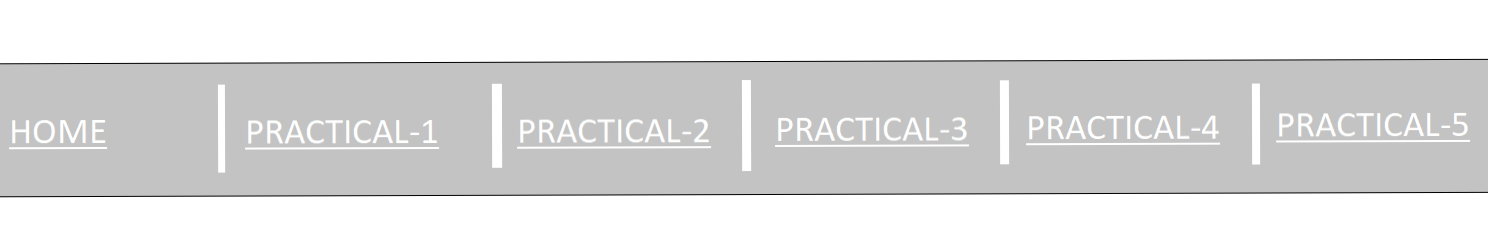
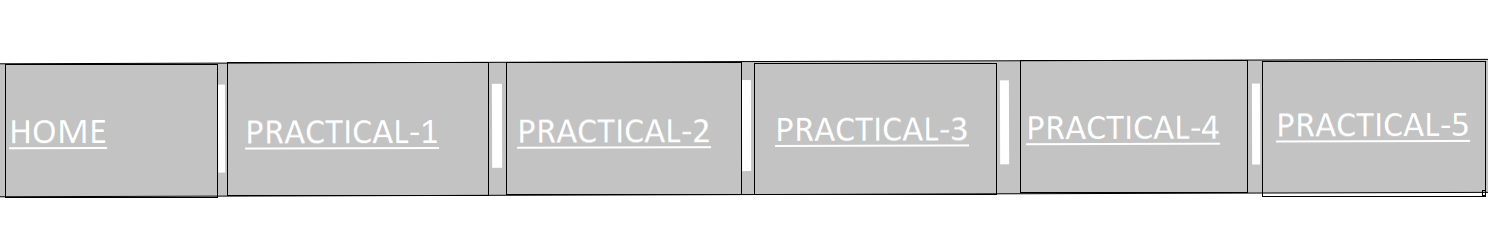
css

diff --git a/css.html b/css.html
@@ -1,0 +1,99 @@
+<!DOCTYPE html>
+<html lang="en">
+<head>
+    <meta charset="UTF-8">
+    <meta name="viewport" content="width=device-width, initial-scale=1.0">
+    <title>Document</title>
+    <link rel ="stylesheet" href="style.css">
+                
+    <style>
+      
+        html{
+
+          height:100%;
+        }
+        h1,h2{
+          text-align:center;
+          color: rgb(49, 0, 128);
+        }
+        p{
+            background-color: greenyellow;
+           
+        }
+        body{
+        background-image: url('../img/jess-bailey-q10VITrVYUM-unsplash.jpg');
+        background-position: center;
+        background-size: cover;
+        }
+        
+        a:link{
+            color: red;
+        }
+        a:visited{
+            color: seagreen;
+        }
+
+        a:active{
+            color: yellow;
+        }
+        a:hover{
+            color:goldenrod
+        }
+
+    </style>
+</head>
+<body>
+
+    <h1 style="color: green">
+        Welcome to Fullstack Course
+    </h1>
+
+    <h2>
+        About Course
+    </h2>
+
+    <p>
+        Front -end web development is everything involved in programming the user interface of web application.Typically 
+        it refers to the Hypertext Markup Language(HTML),Cascading Style Sheets (CSS) and JavaScript portion of website
+        production as oppsed to the database or server -side programming.It encompasses everything from building a simple 
+        page of HTML text to creating complex, responsive HTML5 websites designed to be accessed via various
+        different browsers,devices and screen sizes. 
+    </p>
+
+    <h1 >
+        List of Practical
+    </h1>
+
+    <p>
+        1.Create a Web page including HTML basic skeleton using Offline HTML Editor and Online Sandbox Environment
+        <a href ="p/practical1.html">Practical-1</a>
+        <br>
+        <br>
+    </p>
+        <h1 >
+            hello 
+        </h1>
+
+    <p>
+        2.Live your First Web-Page on Git-Hub.
+        <a href ="p/practical2.html">Practical-2</a>
+        <br>
+        <br>
+
+        3. Create a web page showing a basic html structure using character Entities and span Tag.
+        <a href ="p/practical3.html">Practical-3</a>
+        <br>  
+        <br>
+
+        4.Create a website having list of all practical and their individual practical Page links
+        <a href ="p/practical4.html">Practical-4</a> 
+    </p>  
+    <h2>
+        ufhdu
+    </h2>
+<h2>
+    uusesdhhf
+</h2>
+
+</body>
+</html>

diff --git a/5.html b/5.html
@@ -1,0 +1,86 @@
+<!DOCTYPE html>
+<html lang="en">
+<head>
+    <meta charset="UTF-8">
+    <meta name="viewport" content="width=device-width, initial-scale=1.0">
+    <title>Document</title>
+        
+<style>
+
+
+    body{
+    background-color:rgb(160, 159, 159);
+    }
+
+
+    .my-div1{
+    background-color: rgb(99, 97, 97);
+
+    border:10px solid ivory;
+    padding: 30px;
+    margin-bottom: 10px;
+
+    font-size: 30px;
+    }
+        a:link{
+            color: white;
+        }
+
+</style>
+</head>
+
+<body>
+    <div class="my-div1">
+       
+        <a href ="../index.html">          HOME   |</a>
+        
+        <a href ="practical1.html">  PRACTICAL-1     |</a>
+
+        
+        <a href ="practical2.html">  PRACTICAL-2     |</a>
+    
+      
+        <a href ="practical3.html">  PRACTICAL-3     |</a>
+      
+     
+        <a href ="practical4.html">  PRACTICAL-4     |</a> 
+
+        <a href ="#">  PRACTICAL-5     </a> 
+     
+ 
+    </div>
+    <img src="../img/fullmenu.png"
+    style="display:block;margin-left:auto;margin-right:auto;" 
+     usemap="#map" 
+   />
+
+
+    <h2 style="color: ivory; text-align: center; font-size: 35px;">
+        Introduction to Front-End Tecnologies
+    </h2>
+
+
+
+    <img src="../img/Practical-5.jpg"
+    style="display:block;margin-left:auto;margin-right:auto;" 
+     usemap="#map1" 
+   />
+
+    <map id="map1" name="map1">
+        <area href="practical5-html.html" shape="rect" coords="18,4,177,169" />  
+        
+        <area href="practical5-css.html" shape="circle" coords="285,100,94"/>   
+
+        <area href="practical5-js.html"  shape="rect"  coords="21,195,175,339" />
+
+        <area href="practical5-boot.html" shape="poly" coords="288,200,230,220,240,300,287,332,338,302,345,224" />
+         
+    </map>
+
+    <h3 style="color: red; text-align: center">
+         Click on any part of logo to know more about these technologies.
+    </h3>
+       
+
+</body>
+</html>

diff --git a/css_selector.html b/css_selector.html
@@ -1,0 +1,103 @@
+<!DOCTYPE html>
+<html lang="en">
+<head>
+    <meta charset="UTF-8">
+    <meta name="viewport" content="width=device-width, initial-scale=1.0">
+    <title>Document</title>
+   <style>
+
+        p[lang]
+        {
+            text-shadow:2px 2px 5px green;
+        }
+
+    p,h2{
+           color:red ;
+    }
+
+   *{
+            font-size: 20px;
+
+   }
+  
+   #para4{
+       background-color:aqua;
+   }
+
+   .my-div b{
+    border:5px solid grey;
+    padding: 20px;
+    margin-bottom: 10px;
+   }
+  .my-div1{
+     background-color: rgb(167, 57, 57);
+  }
+  div p{
+          background-color: rgb(199, 204, 129);
+   }
+   div >p{
+          background-color: rgb(30, 32, 2);
+   }
+
+
+   </style>
+  
+</head>
+
+<body>
+
+   <a href="# "> My Achor Tag</a>
+    <div class="my-div">
+        <h1>
+            heading1
+        </h1>
+        <h2>
+            heading2
+        </h2>
+        <blockquote>
+        <p>
+            Lorem ghrhug
+        </p>
+        </blockquote>
+    </div>
+
+    <div class="my-div1">
+        <h1 class="my-div1">
+            heading1
+        </h1>
+        <h2>
+            heading2
+        </h2>
+        <p id="para2">
+            Lorem ghrhug
+        </p>
+    </div>
+
+    <div class="my-div">
+        <h1>
+            heading1
+        </h1>
+        <h2>
+            heading2
+        </h2>
+        <p>
+         <b>vdvdfdg</b>  
+        </p>
+    </div>
+    <p id="para4">
+       hdfgdhfgdfghf
+    </p>
+<p lang="en">
+
+    hfudhfu
+
+</p>
+<p lang="fr">
+    
+    hfudhfu
+
+</p>
+
+
+</body>
+</html>

diff --git a/p/practical5-boot copy.html b/p/practical5-boot copy.html
@@ -1,0 +1,38 @@
+<!DOCTYPE html>
+<html lang="en">
+<head>
+    <meta charset="UTF-8">
+    <meta name="viewport" content="width=device-width, initial-scale=1.0">
+    <title>Document</title>
+
+    <style>
+        body{
+        background-color: rgb(185, 180, 180);
+       
+        }
+    </style>
+
+</head>
+
+<body>
+   
+    <img src="../img/boot.jpg"  width="400" height="400"
+    style="width:40%;display:block;margin-left:auto;margin-right:auto;">
+
+
+    <p  style="background-color: grey;color: ivory;padding: 20px;">
+        Bootstrap is a powerful front-end framework for faster and easier web development. It includes HTML and CSS based design templates for creating common user interface components like forms, buttons, navigations, dropdowns, alerts, modals, tabs, accordions, carousels, tooltips, and so on.
+
+        Bootstrap gives you ability to create flexible and responsive web layouts with much less efforts.
+        
+        Bootstrap was originally created by a designer and a developer at Twitter in mid-2010. Before being an open-sourced framework, Bootstrap was known as Twitter Blueprint.
+        
+        You can save a lot of time and effort with Bootstrap. 
+    </p>
+     
+
+</body>
+
+
+
+</html>

diff --git a/css_color.html b/css_color.html
@@ -1,0 +1,47 @@
+<!DOCTYPE html>
+<html lang="en">
+<head>
+    <meta charset="UTF-8">
+    <meta name="viewport" content="width=device-width, initial-scale=1.0">
+    <title>Document</title>
+    <style>
+
+
+        .color1{
+
+            height: 100px;
+            border: 2px solid black;
+            background-color: brown;
+        }
+        .innerbox{
+            height: 100px;
+            background-color: rgb(235, 208, 208);
+            padding: 50px;
+            margin-top:20px;
+
+        }
+    h2{
+
+      color: #96000; 
+      text-align: center;
+      font-size:40px;
+
+    }
+    </style>
+</head>
+
+<body>
+
+<div class="color1">  
+
+    <div
+        class ="innerbox"></div>
+    </div>
+</div>
+<h2>
+    ygeygy
+</h2>
+
+</body>
+
+</html>

diff --git a/style.css b/style.css
@@ -1,0 +1,7 @@
+body{
+    background-color: rgb(162, 233, 228);
+}
+h1{
+    background-color:rgb(238, 194, 232);
+    color: white;
+}
